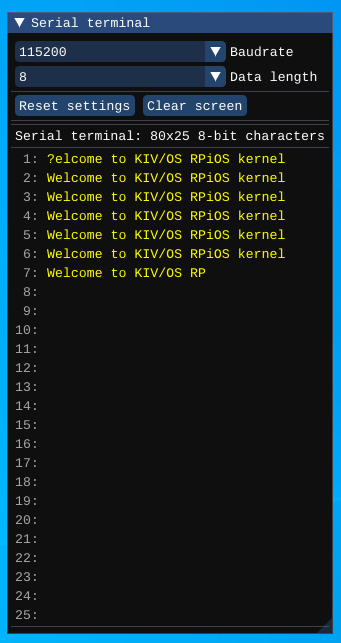
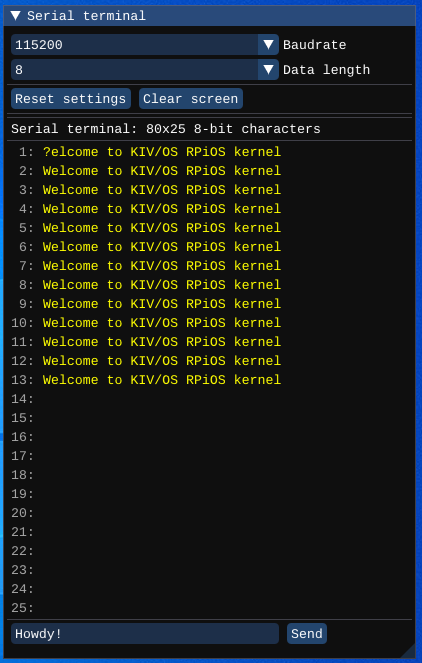
#106 Updated README.md

Changed region(s): [[0.0, 0.0, 1.0, 1.0]]

diff --git a/peripherals/serial_terminal/src/serial_terminal.cpp b/peripherals/serial_terminal/src/serial_terminal.cpp
@@ -290,7 +290,7 @@ void CSerial_Terminal::Render_Control_Buttons()
 void CSerial_Terminal::Render_User_Input()
 {
     // Render the input text.
-    ImGui::InputText("User input", m_user_input.data(), User_Input_Buffer_Size);
+    ImGui::InputText("##User input", m_user_input.data(), User_Input_Buffer_Size);
     ImGui::SameLine();
 
     // Render the send button.

diff --git a/peripherals/serial_terminal/README.md b/peripherals/serial_terminal/README.md
@@ -1,6 +1,6 @@
 # Serial terminal
 
-The serial terminal needs to connected to GPIO pins - RX, and TX. It communicates via the UART protocol. However, only from the terminal's perspective, only the RX channel is used, making the it a write-only external device.
+The serial terminal needs to be connected to GPIO pins - RX, and TX. It communicates via the UART protocol. The user can transmit data using the text input located at the bottom part of the window.
 
 <img src="../../misc/screenshots/peripherals/serial_terminal.png">
 
